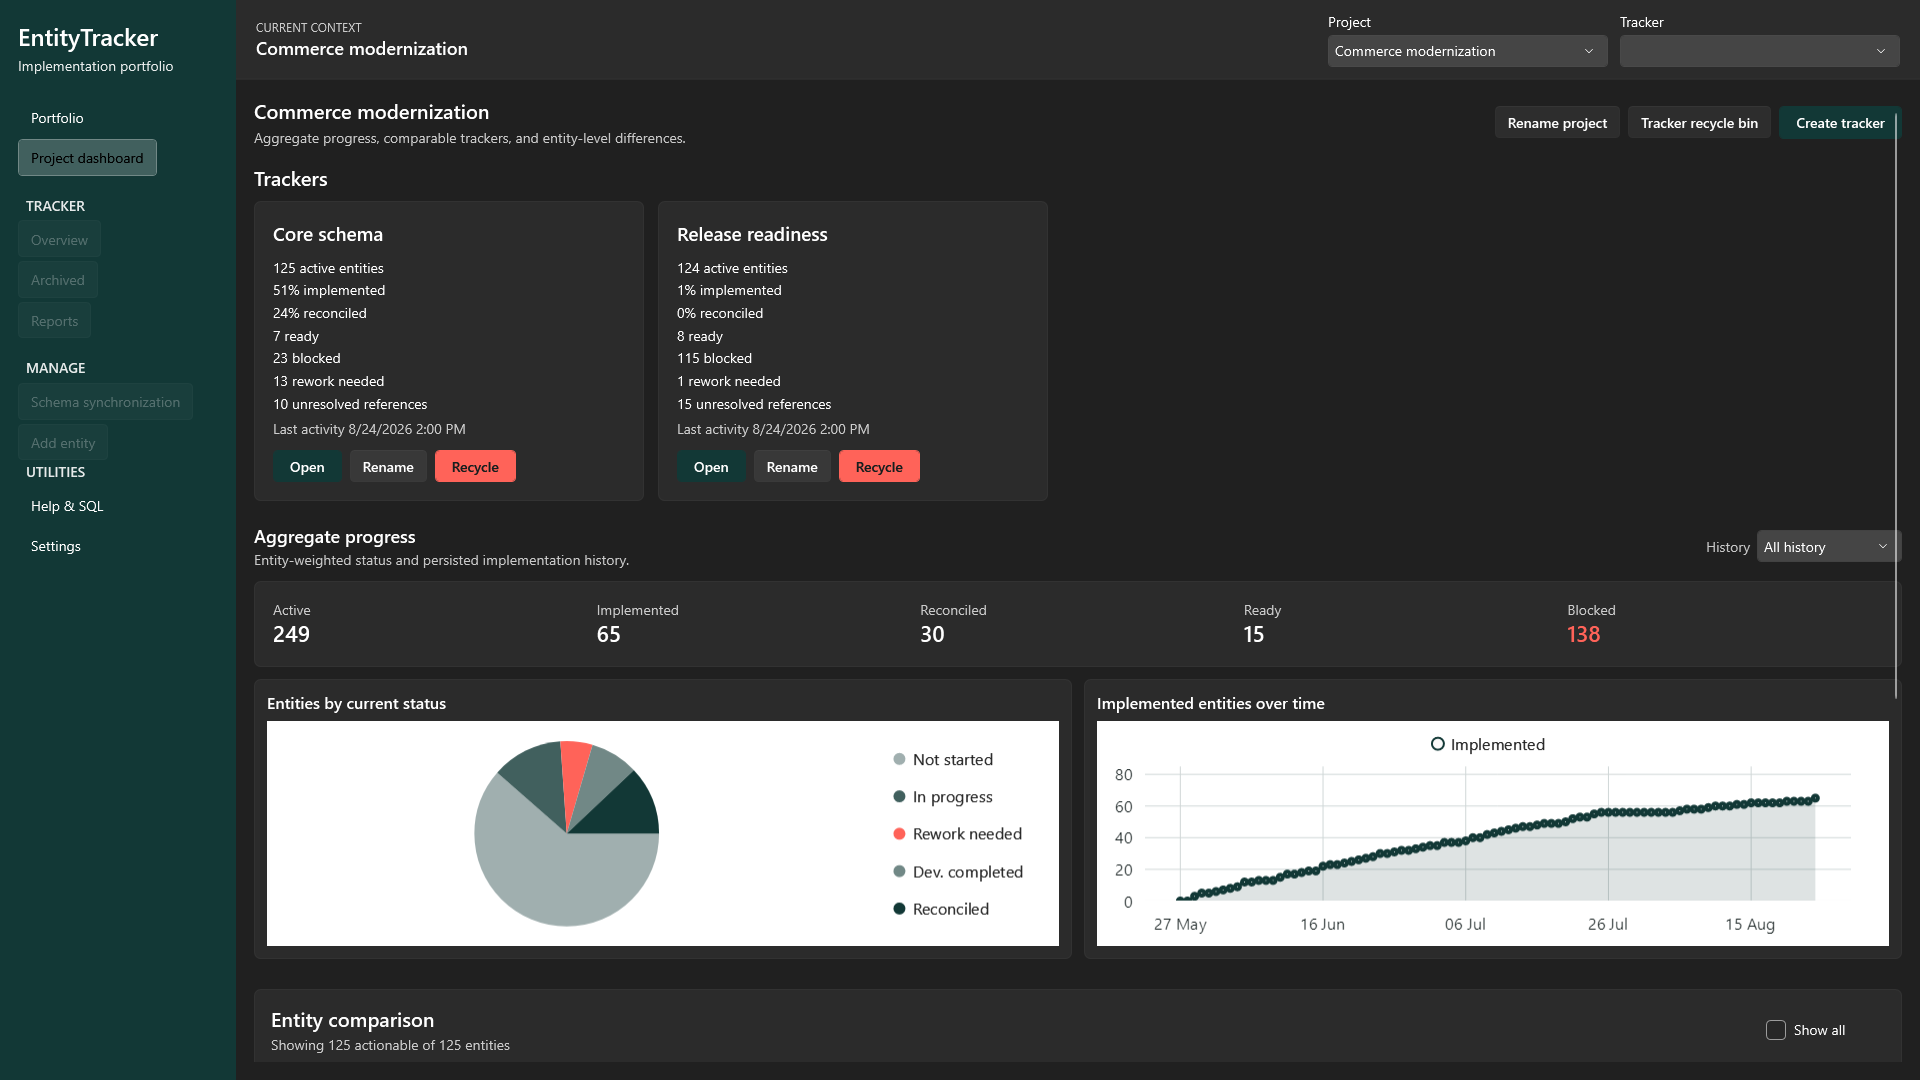
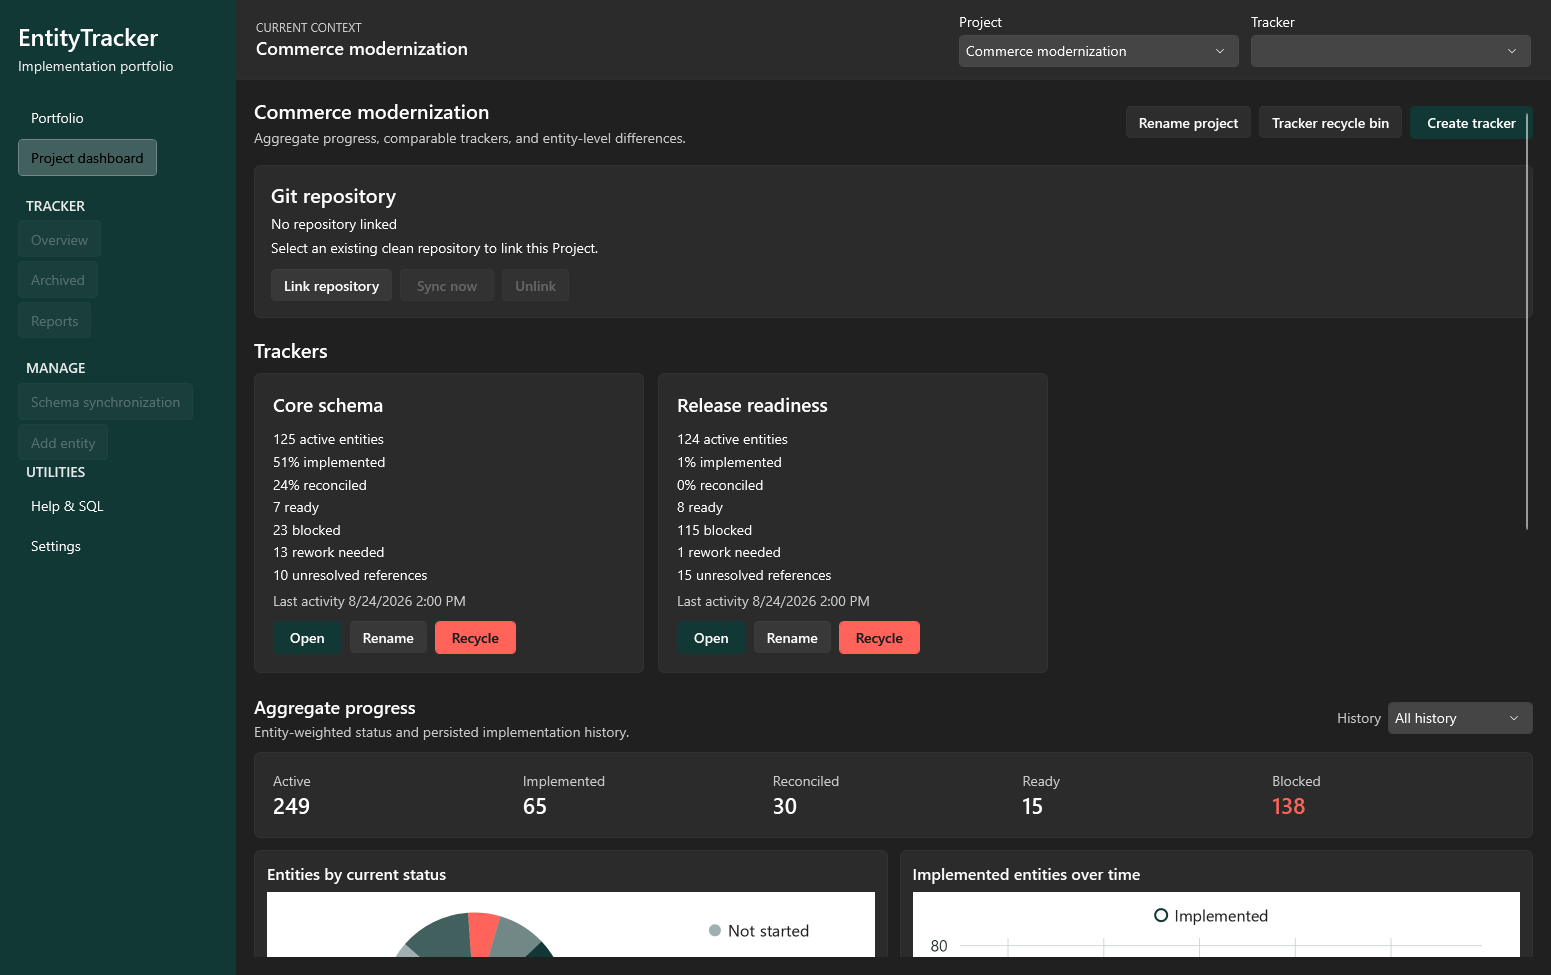
Milestone GS-02.2

diff --git a/src/EntityTracker.Wpf/Views/ProjectDashboardView.xaml b/src/EntityTracker.Wpf/Views/ProjectDashboardView.xaml
@@ -205,13 +205,17 @@
                 <StackPanel>
                     <TextBlock FontSize="20" FontWeight="SemiBold" Text="Git repository" />
                     <TextBlock Margin="0,5,0,0" Text="{Binding RepositoryPath}" TextWrapping="Wrap" />
-                    <TextBlock Margin="0,4,0,0" Text="{Binding Branch}" />
-                    <TextBlock Margin="0,4,0,0" Text="{Binding Upstream}" />
+                    <TextBlock Margin="0,4,0,0" Text="{Binding Branch}"
+                               Visibility="{Binding IsLinked, Converter={StaticResource BooleanToVisibilityConverter}}" />
+                    <TextBlock Margin="0,4,0,0" Text="{Binding Upstream}"
+                               Visibility="{Binding IsLinked, Converter={StaticResource BooleanToVisibilityConverter}}" />
                     <TextBlock Margin="0,6,0,0" Text="{Binding LastResult}" TextWrapping="Wrap" />
                     <TextBlock Margin="0,4,0,0" Text="{Binding PendingAction}" TextWrapping="Wrap"
-                               Foreground="{DynamicResource Brush.Text.Secondary}" />
+                               Foreground="{DynamicResource Brush.Text.Secondary}"
+                               Visibility="{Binding HasPendingAction, Converter={StaticResource BooleanToVisibilityConverter}}" />
                     <TextBlock Margin="0,6,0,0" Text="{Binding Message}" TextWrapping="Wrap"
-                               Foreground="{DynamicResource Brush.Status.ReworkNeeded}"
+                               Foreground="{DynamicResource Brush.Text.Primary}"
+                               Visibility="{Binding HasMessage, Converter={StaticResource BooleanToVisibilityConverter}}"
                                AutomationProperties.LiveSetting="Assertive" />
                     <StackPanel Margin="0,12,0,0" Orientation="Horizontal">
                         <Button Margin="0,0,8,0" Content="Link repository" Command="{Binding LinkCommand}"

diff --git a/tools/EntityTracker.Screenshots/ScreenshotServiceProviderFactory.cs b/tools/EntityTracker.Screenshots/ScreenshotServiceProviderFactory.cs
@@ -12,9 +12,13 @@ using EntityTracker.Application.Ranking;
 using EntityTracker.Application.Synchronization;
 using EntityTracker.Application.Tracking;
 using EntityTracker.Application.Workflow;
+using EntityTracker.Application.GitSync;
+using EntityTracker.Application.Snapshots;
 using EntityTracker.Infrastructure.Configuration;
 using EntityTracker.Infrastructure.Importing;
 using EntityTracker.Infrastructure.Persistence;
+using EntityTracker.Infrastructure.GitSync;
+using EntityTracker.Infrastructure.Snapshots;
 using EntityTracker.Reporting;
 using EntityTracker.Wpf;
 using EntityTracker.Wpf.Services;
@@ -70,6 +74,15 @@ internal static class ScreenshotServiceProviderFactory
         services.AddSingleton<IProjectRepository, SqliteProjectRepository>();
         services.AddSingleton<ITrackerRepository, SqliteTrackerRepository>();
         services.AddSingleton<IProjectTrackerStore, SqliteProjectTrackerStore>();
+        services.AddSingleton<IProjectSnapshotStore, SqliteProjectSnapshotStore>();
+        services.AddSingleton<IProjectSnapshotCodec, ProjectSnapshotJsonCodec>();
+        services.AddSingleton<IProjectSyncLinkStore>(new JsonProjectSyncLinkStore(
+            Path.Combine(paths.RootDirectory, "git-sync-links.v1.json")));
+        services.AddSingleton<ILocalGitTransport, SystemGitTransport>();
+        services.AddSingleton<IOutboundDeletionApproval, ScreenshotOutboundDeletionApproval>();
+        services.AddSingleton<IProjectRepositoryFolderPicker, ScreenshotRepositoryFolderPicker>();
+        services.AddSingleton<ProjectGitSyncService>();
+        services.AddSingleton<ProjectRepositoryCardViewModelFactory>();
 
         services.AddSingleton<ISchemaImportParser, CsvSchemaImportParser>();
         services.AddSingleton<ISchemaImportFileParser, CsvSchemaImportFileParser>();

diff --git a/tools/EntityTracker.Screenshots/ReadmeScreenshotGenerator.cs b/tools/EntityTracker.Screenshots/ReadmeScreenshotGenerator.cs
@@ -9,6 +9,7 @@ using EntityTracker.Application.Lifecycle;
 using EntityTracker.Application.ManualCreation;
 using EntityTracker.Application.Persistence;
 using EntityTracker.Application.Tracking;
+using EntityTracker.Application.GitSync;
 using EntityTracker.Domain;
 using EntityTracker.Infrastructure.Configuration;
 using EntityTracker.Wpf;
@@ -84,6 +85,23 @@ internal sealed class ReadmeScreenshotGenerator
                 "The project dashboard did not finish loading.",
                 cancellationToken);
             await renderer.CaptureAsync("project-dashboard.png", settleMilliseconds: 900);
+            // Presentation fixture only. The real folder stays in the disposable workspace.
+            string repositoryFixturePath = Directory.CreateDirectory(
+                Path.Combine(workspace.RootDirectory, "example-repository")).FullName;
+            await provider.GetRequiredService<IProjectSyncLinkStore>().SaveAsync(new ProjectSyncLink(
+                project.Id.Value,
+                repositoryFixturePath,
+                "main",
+                null,
+                null,
+                0,
+                null,
+                "Linked; initial snapshot pending",
+                "Pending"), cancellationToken);
+            await shell.ProjectReporting!.RepositoryCard!.RefreshAsync(cancellationToken);
+            await renderer.CaptureWithTextOverrideAsync(
+                "project-git-repository.png", repositoryFixturePath,
+                @"C:\Projects\order-platform", settleMilliseconds: 900);
             await renderer.BringNamedElementIntoViewAndCaptureAsync(
                 "ComparisonGrid",
                 "project-comparison.png");

diff --git a/src/EntityTracker.Wpf/ViewModels/ProjectRepositoryCardViewModel.cs b/src/EntityTracker.Wpf/ViewModels/ProjectRepositoryCardViewModel.cs
@@ -44,6 +44,8 @@ public sealed class ProjectRepositoryCardViewModel : INotifyPropertyChanged
     public string LastResult => _link?.LastResult ?? "Select an existing clean repository to link this Project.";
     public string PendingAction => _link?.SyncStatus == "Pending" ? "Sync now to create the initial snapshot commit." : string.Empty;
     public string? Message => _message;
+    public bool HasPendingAction => !string.IsNullOrEmpty(PendingAction);
+    public bool HasMessage => !string.IsNullOrWhiteSpace(Message);
 
     public async Task RefreshAsync(CancellationToken token = default)
     {
@@ -87,7 +89,8 @@ public sealed class ProjectRepositoryCardViewModel : INotifyPropertyChanged
     private void Notify()
     {
         foreach (string name in new[] { nameof(IsLinked), nameof(IsBusy), nameof(RepositoryPath),
-                     nameof(Branch), nameof(Upstream), nameof(LastResult), nameof(PendingAction), nameof(Message) })
+                     nameof(Branch), nameof(Upstream), nameof(LastResult), nameof(PendingAction), nameof(Message),
+                     nameof(HasPendingAction), nameof(HasMessage) })
             PropertyChanged?.Invoke(this, new PropertyChangedEventArgs(name));
         _linkCommand.NotifyCanExecuteChanged();
         _syncCommand.NotifyCanExecuteChanged();

diff --git a/tools/EntityTracker.Screenshots/WpfScreenshotRenderer.cs b/tools/EntityTracker.Screenshots/WpfScreenshotRenderer.cs
@@ -28,6 +28,23 @@ internal sealed class WpfScreenshotRenderer(MainWindow window, string outputDire
         Save(RenderVisual(Root, includePageBackground: true), Path.Combine(_outputDirectory, fileName));
     }
 
+    internal async Task CaptureWithTextOverrideAsync(
+        string fileName, string actualText, string screenshotText, int settleMilliseconds = 150)
+    {
+        TextBlock pathLabel = FindVisualDescendants<TextBlock>(Root)
+            .SingleOrDefault(label => label.Text == actualText)
+            ?? throw new InvalidOperationException("The repository path label was not rendered.");
+        pathLabel.SetCurrentValue(TextBlock.TextProperty, screenshotText);
+        try
+        {
+            await CaptureAsync(fileName, settleMilliseconds);
+        }
+        finally
+        {
+            pathLabel.SetCurrentValue(TextBlock.TextProperty, actualText);
+        }
+    }
+
     internal async Task CaptureGraphIssueAsync(string fileName)
     {
         await SettleAsync();

diff --git a/tools/EntityTracker.Screenshots/ScreenshotAdapters.cs b/tools/EntityTracker.Screenshots/ScreenshotAdapters.cs
@@ -1,4 +1,5 @@
 using EntityTracker.Wpf.Services;
+using EntityTracker.Application.GitSync;
 
 namespace EntityTracker.Screenshots;
 
@@ -23,6 +24,17 @@ internal sealed class ScreenshotClipboard : IClipboardService
 internal sealed class ScreenshotChartFilePicker : IProgressChartFilePicker
 {
     public string? SelectPngPath(string suggestedFileName) => null;
+}
+
+internal sealed class ScreenshotRepositoryFolderPicker : IProjectRepositoryFolderPicker
+{
+    public string? Pick() => null;
+}
+
+internal sealed class ScreenshotOutboundDeletionApproval : IOutboundDeletionApproval
+{
+    public Task<bool> ApproveAsync(IReadOnlyList<string> deletedObjects,
+        CancellationToken cancellationToken = default) => Task.FromResult(false);
 }
 
 internal sealed class ScreenshotSynchronizationConfirmation : ISchemaSynchronizationConfirmation

diff --git a/tests/EntityTracker.Screenshots.Tests/ScreenshotCommandLineTests.cs b/tests/EntityTracker.Screenshots.Tests/ScreenshotCommandLineTests.cs
@@ -28,7 +28,8 @@ public sealed class ScreenshotCommandLineTests
     [Fact]
     public void Manifest_HasUniquePngNames()
     {
-        Assert.Equal(27, ScreenshotManifest.FileNames.Count);
+        Assert.Equal(28, ScreenshotManifest.FileNames.Count);
+        Assert.Contains("project-git-repository.png", ScreenshotManifest.FileNames);
         Assert.Equal(
             ScreenshotManifest.FileNames.Count,
             ScreenshotManifest.FileNames.Distinct(StringComparer.OrdinalIgnoreCase).Count());

diff --git a/tools/EntityTracker.Screenshots/ScreenshotManifest.cs b/tools/EntityTracker.Screenshots/ScreenshotManifest.cs
@@ -14,6 +14,7 @@ internal static class ScreenshotManifest
     [
         "portfolio.png",
         "project-dashboard.png",
+        "project-git-repository.png",
         "project-comparison.png",
         "tracker-recycle-confirmation.png",
         "tracker-recycle-bin.png",

diff --git a/docs/DEVELOPMENT.md b/docs/DEVELOPMENT.md
@@ -146,11 +146,15 @@ unrelated image assets are preserved. Each open screenshot window switches to th
 appearance and back before capture, exercising live Light-to-Dark and Dark-to-Light transitions.
 The utility imports the repository's 125-entity synthetic schema, creates two Projects and three
 related Trackers, creates fixed status and 90-day history data, and captures the portfolio, Project
-dashboard, Tracker copy review, overview, synchronization, entity, progress, archive, destructive
+dashboard, a linked local Git repository card, Tracker copy review, overview, synchronization,
+entity, progress, archive, destructive
 confirmation, Help &amp; SQL, SQL-query, and Settings states. It uses a new SQLite database below the
 operating-system temporary directory for each appearance and never reads or changes
 `%LOCALAPPDATA%\EntityTracker`. The application may remain open while the screenshots are
-generated.
+generated. The linked Git card is an illustrative state backed by a directory inside the
+temporary screenshot workspace. Only its displayed path is replaced with a generic example during
+capture; the stored path remains the temporary directory. Generation does not create or modify a
+Git repository or commit.
 
 CI restores, builds, and tests the screenshot project as part of the solution, but deliberately
 does not render or replace README images. Rendering remains an explicit local review workflow.

diff --git a/README.md b/README.md
@@ -106,6 +106,14 @@ for consistency.
   </tr>
 </table>
 
+### Commit a Project snapshot locally
+
+The Project dashboard shows its linked repository, checked-out branch, upstream status, and the
+last manual sync result. **Sync now** commits the Project snapshot to the existing working tree;
+unlinking leaves the repository and SQLite data in place.
+
+![Illustrative Project dashboard state with a local Git link and manual Sync now control](images/light/project-git-repository.png)
+
 ### Compare sibling Trackers
 
 The Project matrix aligns active entities by normalized source key. It starts with actionable
